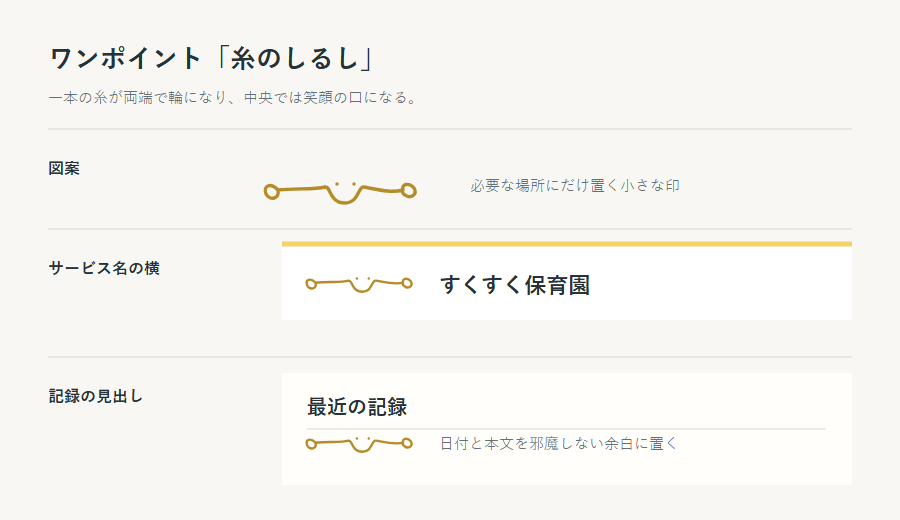
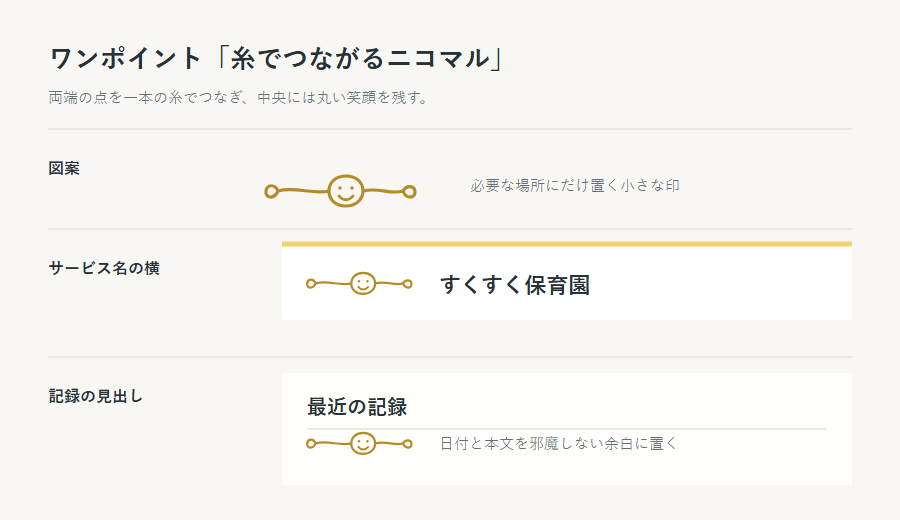
糸の印に丸いニコマルを戻す

diff --git a/図/ワンポイントデザイン案.md b/図/ワンポイントデザイン案.md
@@ -4,16 +4,16 @@
 | :-- | :-- |
 | 状態 | チーム確認用のたたき台。アプリの正式なロゴや機能アイコンにはまだしない |
 | 作成日 | 2026-10-05 |
-| 仮の名前 | 糸のしるし |
+| 仮の名前 | 糸でつながるニコマル |
 | 典拠 | `README.md`「背景・コンセプト」、`図/デザインアーキテクチャ案.md`「ねらい」「形・文字・アイコン」 |
 
 ## 図案
 
-![二つの点を一本の曲線でつなぐワンポイント「糸のしるし」](デザイン案/糸のしるし.png)
+![両端の点を糸でつなぎ、中央に丸い笑顔のニコマルを置いたワンポイント](デザイン案/糸のしるし.png)
 
-両端の小さな輪を保護者と保育士という二つの点に見立てる。**一本の糸が左の輪から始まり、中央で笑顔の口になって、右の輪へ続く。** 目だけは小さな二点で添えた。顔の丸い輪郭を別に描かないため、糸の流れが途切れて見えない。`README.md` の「点を線でつなぐ」コンセプトを保ちながら、画面に温かさを添える印である。顔は園児の状態や感情を表すものではない。
+両端の小さな輪を保護者と保育士という二つの点に見立てる。**一本の糸が左の輪から中央の丸いニコマルを通り、右の輪へ続く。** 顔には丸い輪郭、二つの目、笑う口を残した。輪郭と左右の糸は同じ細さ・同じ色でつなぎ、`README.md` の「点を線でつなぐ」コンセプトとワンポイントとしての軽さを両立する。顔は園児の状態や感情を表すものではない。
 
-主線は**切れ目のない一つのパス**で描く。両端の輪を正円にせず、糸の緩みが見えるよう左右を少し変える。色は**仮値**で、糸と目を `#B58C2A` とした。
+輪郭と左右の糸を**切れ目のない一つのパス**で描く。両端の輪を正円にせず、糸の緩みが見えるよう左右を少し変える。色は**仮値**で、糸と顔を `#B58C2A` とした。
 
 ## 置き方の例
 
